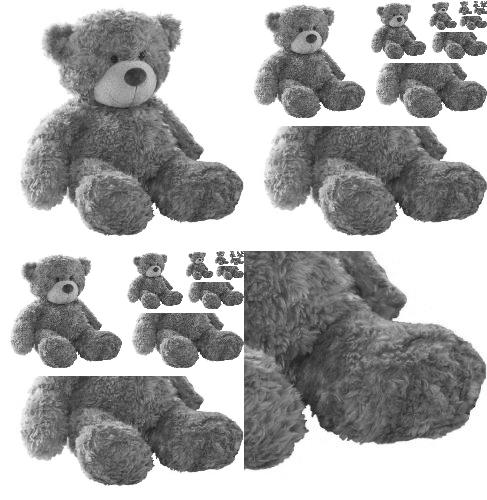
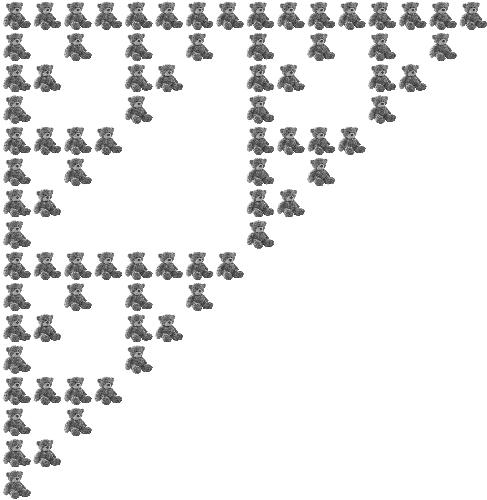
Complete IFS fractal creation

diff --git a/imagetools/imagefractaltools.go b/imagetools/imagefractaltools.go
@@ -8,33 +8,52 @@ import (
 
 const iterations = 1
 
-func CreateFractalFromImage(img *image.Gray) *image.Gray {
-	for i := 0; i < iterations; i++ {
-		img = applyIFSToImage(img, 0.5, 0, 0, 0.5, 0, 0)
-		img = applyIFSToImage(img, 0.5, 0, 0, 0.5, 0.5, 0)
-		img = applyIFSToImage(img, 0.5, 0, 0, 0.5, 0, 0.5)
+// Transformation is a struct to describe a ISF transformation
+type Transformation struct {
+	A, B, C, D, E, F float64
+}
+
+// CreateFractalFromImage is a Function to create fractal from ISF
+func CreateFractalFromImage(img *image.Gray, numberOfIterations int, transformations []Transformation) *image.Gray {
+
+	for i := 0; i < numberOfIterations; i++ {
+		applyIFSToImage(img, transformations)
 	}
 	return img
 }
 
-func applyIFSToImage(img *image.Gray, a float64, b float64, c float64, d float64, e float64, f float64) *image.Gray {
+func applyIFSToImage(img *image.Gray, transformations []Transformation) *image.Gray {
 
-	// a b  * x  + e
-	// c d  * y  + f
+	// (a b)  * (x)  + (e)
+	// (c d)  * (y)  + (f)
 
-	rect := img.Bounds()
+	imgMatrix := make([][]uint8, img.Stride)
+	for i := 0; i < len(imgMatrix); i++ {
+		imgMatrix[i] = make([]uint8, len(img.Pix)/img.Stride)
+	}
 
-	for x := 0; x < rect.Dx(); x++ {
-		for y := 0; y < rect.Dy(); y++ {
-			grayValue := color.GrayModel.Convert(img.At(x, y)).(color.Gray)
-			//reset color at visited pixel
-			//img.SetGray(x, y, color.Gray{255})
-			//set this gray value on a transformed position
-			var newX int = int(math.Round(a*float64(x) + b*float64(y) + e*float64(rect.Dx())))
-			var newY int = int(math.Round(c*float64(x) + d*float64(y) + f*float64(rect.Dy())))
-
-			img.SetGray(newX, newY, grayValue)
+	//fill img Matrix with 0 values
+	var x, y int = 0, 0
+	for i := 0; i < len(img.Pix); i++ {
+		imgMatrix[x%img.Stride][y] = img.Pix[i]
+		//make all pixel blank
+		img.Pix[i] = 255
+		x++
+		if x%img.Stride == 0 {
+			y++
 		}
 	}
+
+	for i := 0; i < len(transformations); i++ {
+		for x := 0; x < len(imgMatrix); x++ {
+			for y := 0; y < len(imgMatrix[x]); y++ {
+				grayValue := imgMatrix[x][y]
+				var newX int = int(math.Round(transformations[i].A*float64(x) + transformations[i].B*float64(y) + transformations[i].E*float64(img.Rect.Dx())))
+				var newY int = int(math.Round(transformations[i].C*float64(x) + transformations[i].D*float64(y) + transformations[i].F*float64(img.Rect.Dy())))
+				img.SetGray(newX, newY, color.Gray{Y: grayValue})
+			}
+		}
+	}
+
 	return img
 }

diff --git a/main.go b/main.go
@@ -7,6 +7,33 @@ import (
 	"os"
 )
 
+var transformation1 = imagetools.Transformation{
+	A: 0.5,
+	B: 0,
+	C: 0,
+	D: 0.5,
+	E: 0,
+	F: 0,
+}
+
+var transformation2 = imagetools.Transformation{
+	A: 0.5,
+	B: 0,
+	C: 0,
+	D: 0.5,
+	E: 0.5,
+	F: 0,
+}
+
+var transformation3 = imagetools.Transformation{
+	A: 0.5,
+	B: 0,
+	C: 0,
+	D: 0.5,
+	E: 0,
+	F: 0.5,
+}
+
 func main() {
 	if len(os.Args) < 2 {
 		log.Fatalln("Please specify an imagepath!")
@@ -22,12 +49,11 @@ func main() {
 
 	fmt.Println("Image successfully turned gray...")
 
-	grayImg = imagetools.CreateFractalFromImage(grayImg)
+	grayImg = imagetools.CreateFractalFromImage(grayImg, 4, []imagetools.Transformation{transformation1, transformation2, transformation3})
 
 	fmt.Println("Image successfully fractalized...")
 
 	imagetools.SaveImageToFile(grayImg, filename)
 
 	fmt.Println("Image successfully saved...")
-
 }
